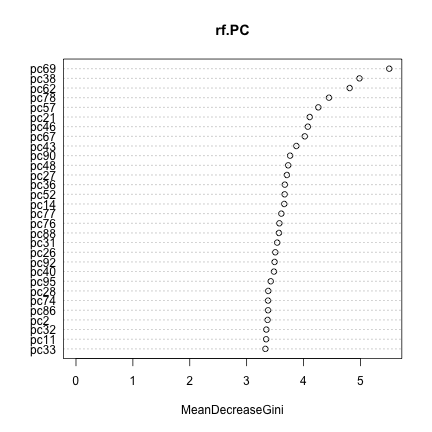
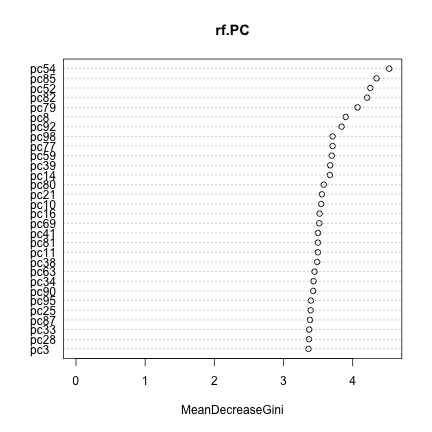
d

diff --git a/_posts/2014-10-29-thoughts.md b/_posts/2014-10-29-thoughts.md
@@ -139,8 +139,8 @@ kable(table(pred = prediction, true = d$y[801:1000]),
 {% highlight text %}
 |id  |   0|   1|
 |:---|---:|---:|
-|0   |  87|  16|
-|1   |  10|  87|
+|0   |  78|  18|
+|1   |  15|  89|
 {% endhighlight %}
 
 
@@ -163,7 +163,7 @@ kable(table(pred = prediction, true = d.PC$y[801:1000]),
 {% highlight text %}
 |id  |   0|    1|
 |:---|---:|----:|
-|0   |  97|  103|
+|0   |  93|  107|
 |1   |   0|    0|
 {% endhighlight %}
 
@@ -178,7 +178,7 @@ rf <- randomForest(y ~ ., data = d[1:800, ], ntree = 1000,
 prediction <- predict(rf, d[801:1000, ])
 {% endhighlight %}
 
-
+Again the results are acceptable:
 
 {% highlight r %}
 kable(table(pred = prediction, true = d$y[801:1000]), 
@@ -190,11 +190,11 @@ kable(table(pred = prediction, true = d$y[801:1000]),
 {% highlight text %}
 |id  |   0|   1|
 |:---|---:|---:|
-|0   |  84|  10|
-|1   |  13|  93|
+|0   |  70|  32|
+|1   |  23|  75|
 {% endhighlight %}
 
-
+And the importance plot identifies variables we need going forward:
 
 {% highlight r %}
    varImpPlot(rf)
@@ -202,6 +202,8 @@ kable(table(pred = prediction, true = d$y[801:1000]),
 
 <img src="../images/10-29-thoughts-impplot.png" title="plot of chunk impplot" alt="plot of chunk impplot" style="display: block; margin: auto;" />
 
+
+And again, the principal components are worthless:
 <!-- randomForest: R code (No Results in Document) -->
 
 {% highlight r %}
@@ -222,8 +224,8 @@ kable(table(pred = prediction, true = d.PC$y[801:1000]),
 {% highlight text %}
 |id  |   0|   1|
 |:---|---:|---:|
-|0   |  31|  38|
-|1   |  66|  65|
+|0   |  66|  73|
+|1   |  27|  34|
 {% endhighlight %}
 
 and the importance plot is not about to help:
